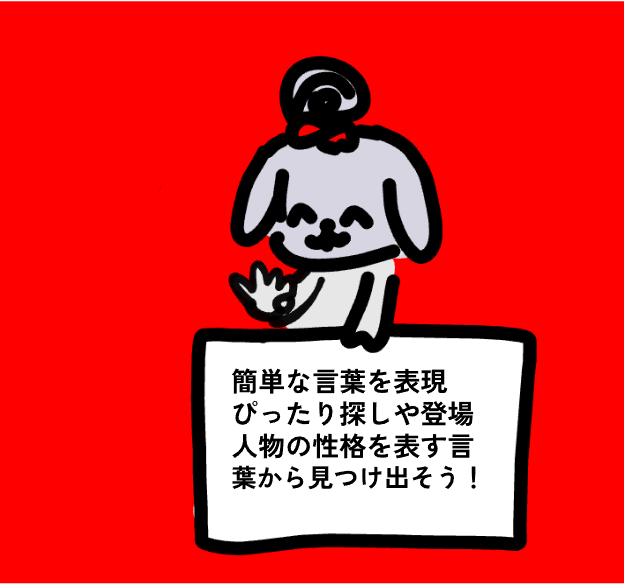
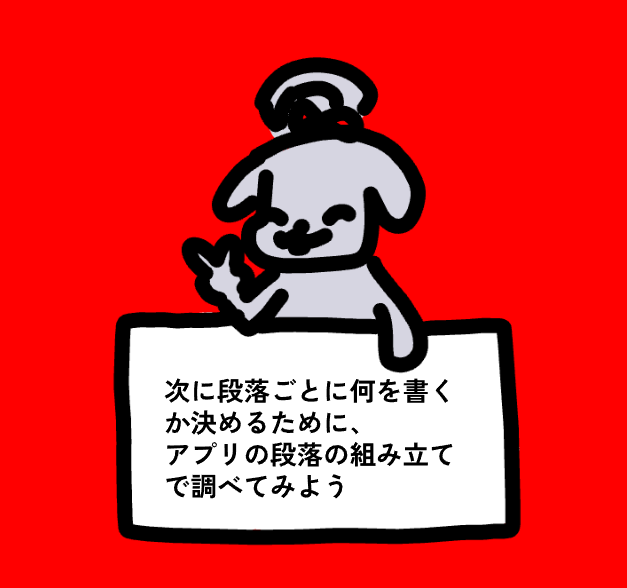
画像追加

Changed region(s): [[0.1827, 0.0925, 0.883, 0.9555], [0.0, 0.9863, 1.0, 1.0], [0.0, 0.0, 1.0, 0.0308]]

diff --git a/src/pages/HomePage.jsx b/src/pages/HomePage.jsx
@@ -1,12 +1,61 @@
-import React from 'react';
-import Hero from '../component/Hero';
-import Tabs from '../component/Tabs';
+import React from "react";
+import Hero from "../component/Hero";
+import Tabs from "../component/Tabs";
 const HomePage = () => {
+  
+// }
+// .flex .image {
+//   width: 640px; /*画像サイズ指定*/
+//   margin: 0;
+//   padding: 0;
+// }
+// .flex .image img {
+//   width: 100%;
+//   height: auto;
+// }
+// .flex .text {
+//   margin: 0 0 0 20px;
+//   padding: 0;
+// }
+
+// body {
+//   margin: 20px;
+//   padding: 0;
+// }
   return (
     <div>
-      <Tabs/>
+      <Tabs />
       <h1>Home</h1>
-      <Hero/>
+      <Hero />
+      <h3>使い方</h3>
+      <div class="flex" style={{display:"flex", width:640, margin:0, padding:0}}>
+        <figure class="image" style={{width:640, margin:0, padding:0}}>
+          <img style={{width:"100%", height:"auto"}}
+            src="https://react-sakubun-otasuke.vercel.app/images/sakubunnigate.png"/>
+        </figure>
+        <p class="text">
+          ここにテキストが入りますここにテキストが入りますここにテキストが入りますここにテキストが入りますここにテキストが入りますここにテキストが入ります
+        </p>
+      </div>
+      <img src="https://react-sakubun-otasuke.vercel.app/images/wantyan1.png" />
+      <br />
+      <img src="https://react-sakubun-otasuke.vercel.app/images/mapwakatta.png" />
+      <br />
+      <img src="https://react-sakubun-otasuke.vercel.app/images/wantyan2.png" />
+      <br />
+      <img src="https://react-sakubun-otasuke.vercel.app/images/wakatta.png" />
+      <br />
+      <img src="https://react-sakubun-otasuke.vercel.app/images/wantyan3.png" />
+      <br />
+      <img src="https://react-sakubun-otasuke.vercel.app/images/uwao.png" />
+      <br />
+      <img src="https://react-sakubun-otasuke.vercel.app/images/wantyan4.png" />
+      <br />
+      <img src="https://react-sakubun-otasuke.vercel.app/images/aseru.png" />
+      <br />
+      <img src="https://react-sakubun-otasuke.vercel.app/images/iikaeniodoroki.png" />
+      <br />
+      <img src="https://react-sakubun-otasuke.vercel.app/images/sakubunmakasete.png" />
     </div>
   );
 };
